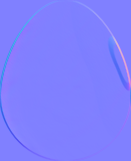
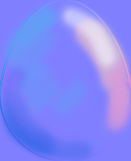
reglages

Changed region(s): [[0.458, 0.0311, 1.0, 0.8385], [0.0, 0.559, 0.6718, 0.9938], [0.0611, 0.0621, 0.3969, 0.3727]]

diff --git a/js/main.js b/js/main.js
@@ -1,10 +1,10 @@
 
 var LightConfiguration = function() {
 	this.shiny = 10;
-	this.specularity = 15;
-	this.lx = -100;
-	this.ly = 100;
-	this.lz = 137;
+	this.specularity = 70;
+	this.lx = 60;
+	this.ly = -100;
+	this.lz = 85;
 }
 
 var lightConf = new LightConfiguration();
@@ -19,125 +19,130 @@ gui.add( lightConf, "lz", 0, 200 );
 ///
 ///
 
-var canvasNormal = document.getElementById( "canvas_normal_map" );
-canvasNormal.width = canvasNormal.getAttribute( "width" );
-canvasNormal.height = canvasNormal.getAttribute( "height" );
-var ctxNormal = canvasNormal.getContext( "2d" );
+window.onload = function() {
 
-var normals = [];
-var normalData = getImageData( document.getElementById( "normal_map" ), ctxNormal ).data;
-var nx, ny, nz, magInv;
-var n = canvasNormal.width * canvasNormal.height * 4;
-for( var i = 0; i < n; i+=4 )
-{
-	nx = normalData[ i ];
-	ny = 255 - normalData[ i + 1 ];
-	nz = normalData[ i + 2 ];
+	var canvasNormal = document.getElementById( "canvas_normal_map" );
+	canvasNormal.width = canvasNormal.getAttribute( "width" );
+	canvasNormal.height = canvasNormal.getAttribute( "height" );
+	var ctxNormal = canvasNormal.getContext( "2d" );
 
-	magInv = 1.0 / Math.sqrt( nx * nx + ny * ny + nz * nz );
-	nx *= magInv;
-	ny *= magInv;
-	nz *= magInv;
+	var normals = [];
+	var normalData = getImageData( document.getElementById( "normal_map" ), ctxNormal ).data;
+	var nx, ny, nz, magInv;
+	var n = canvasNormal.width * canvasNormal.height * 4;
+	for( var i = 0; i < n; i+=4 )
+	{
+		nx = normalData[ i ];
+		ny = 255 - normalData[ i + 1 ];
+		nz = normalData[ i + 2 ];
 
-	normals.push( nx );
-	normals.push( ny );
-	normals.push( nz );
-}
+		magInv = 1.0 / Math.sqrt( nx * nx + ny * ny + nz * nz );
+		nx *= magInv;
+		ny *= magInv;
+		nz *= magInv;
 
-
-var textureData = getImageData( document.getElementById( "texture" ), ctxNormal ).data;
-window.onmousemove = render;
-
-function render( e ) {
-	var cx = Math.max( 200, Math.min( e.clientX, 440 ) );
-	var cy = Math.max( 150, Math.min( e.clientY, 200 ) );
-	drawLight( lightConf.shiny, lightConf.specularity, cx + lightConf.lx, cy + lightConf.ly, lightConf.lz );
-}
-
-function drawLight( shiny, specularity, lx, ly, lz ) {
-	var imgData = ctxNormal.getImageData( 0, 0, canvasNormal.width, canvasNormal.height );
-	var data = imgData.data;
-
-	var i = 0;
-	var ni = 0;
-	var nx = canvasNormal.width;
-	var ny = canvasNormal.height;
-	var dx = 0;
-	var dy = 0;
-	var dz = 0;
-	var x, y, vx, vx, vz, magInv, channel;
-	for( y = 0; y < ny; y++ ) {
-		for( x = 0; x < nx; x++ ) {
-			vx = normals[ ni ];
-			vy = normals[ ni + 1 ];
-			vz = normals[ ni + 2 ];
-
-			if( shiny > 0 || ( ni & 1 == 0 ) ) {
-				dx = lx - x;
-				dy = ly - y;
-				dz = lz;
-
-				magInv = 1.0 / Math.sqrt( dx * dx + dy * dy + dz * dz );
-				dx *= magInv;
-				dy *= magInv;
-				dz *= magInv;
-			}
-
-			var dot = dx * vx + dy * vy + dz * vz;
-			var spec = Math.pow( dot, 20 ) * specularity;
-			spec += Math.pow( dot, 400 ) * shiny;
-			var intensity = spec + 0.5;
-
-			for( channel = 0; channel < 3; channel++ ) {
-				data[ i + channel ] = Math.round( clamp( textureData[ i + channel ] * intensity, 0, 255 ) );
-			}
-			i += 4;
-			ni += 3;
-		}
+		normals.push( nx );
+		normals.push( ny );
+		normals.push( nz );
 	}
-	ctxNormal.putImageData( imgData, 0, 0 );
-}
 
-function clamp( x, min, max ) {
-	if( x < min ) return min;
-	if( x > max ) return max - 1;
-	return x;
-}
+
+	var textureData = getImageData( document.getElementById( "texture" ), ctxNormal ).data;
+	window.onmousemove = render;
+
+	function render( e ) {
+		var cx = e.clientX;
+		var cy = e.clientY;
+		// var cx = Math.max( 200, Math.min( e.clientX, 440 ) );
+		// var cy = Math.max( 150, Math.min( e.clientY, 200 ) );
+		drawLight( lightConf.shiny, lightConf.specularity, cx + lightConf.lx, cy + lightConf.ly, lightConf.lz );
+	}
+
+	function drawLight( shiny, specularity, lx, ly, lz ) {
+		var imgData = ctxNormal.getImageData( 0, 0, canvasNormal.width, canvasNormal.height );
+		var data = imgData.data;
+
+		var i = 0;
+		var ni = 0;
+		var nx = canvasNormal.width;
+		var ny = canvasNormal.height;
+		var dx = 0;
+		var dy = 0;
+		var dz = 0;
+		var x, y, vx, vx, vz, magInv, channel;
+		for( y = 0; y < ny; y++ ) {
+			for( x = 0; x < nx; x++ ) {
+				vx = normals[ ni ];
+				vy = normals[ ni + 1 ];
+				vz = normals[ ni + 2 ];
+
+				if( shiny > 0 || ( ni & 1 == 0 ) ) {
+					dx = lx - x;
+					dy = ly - y;
+					dz = lz;
+
+					magInv = 1.0 / Math.sqrt( dx * dx + dy * dy + dz * dz );
+					dx *= magInv;
+					dy *= magInv;
+					dz *= magInv;
+				}
+
+				var dot = dx * vx + dy * vy + dz * vz;
+				var spec = Math.pow( dot, 20 ) * specularity;
+				spec += Math.pow( dot, 400 ) * shiny;
+				var intensity = spec + 0.5;
+
+				for( channel = 0; channel < 3; channel++ ) {
+					data[ i + channel ] = Math.round( clamp( textureData[ i + channel ] * intensity, 0, 255 ) );
+				}
+				i += 4;
+				ni += 3;
+			}
+		}
+		ctxNormal.putImageData( imgData, 0, 0 );
+	}
+
+	function clamp( x, min, max ) {
+		if( x < min ) return min;
+		if( x > max ) return max - 1;
+		return x;
+	}
 
 ///
 ///
 ///
 
-var displacementSource = document.getElementById( "canvas_displacement_source" );
-var displacementMap = document.getElementById( "canvas_displacement_map" );
-var displacementTarget = document.getElementById( "canvas_displacement_target" );
+	var displacementSource = document.getElementById( "canvas_displacement_source" );
+	var displacementMap = document.getElementById( "canvas_displacement_map" );
+	var displacementTarget = document.getElementById( "canvas_displacement_target" );
 
-fillContext( displacementSource, document.getElementById( "texture" ) );
-fillContext( displacementMap, document.getElementById( "displacement_map" ) );
+	fillContext( displacementSource, document.getElementById( "texture" ) );
+	fillContext( displacementMap, document.getElementById( "displacement_map" ) );
 
-var filter = new filters.DisplacementMap( displacementSource, displacementMap, displacementTarget, new filters.Point(), 15, 15, filters.ColorChannelRED, filters.ColorChannelGREEN );
-filter.draw();
-
-function fillContext( canvas, img ) {
-	var ctx = canvas.getContext( "2d" );
-	ctx.drawImage( img, 0, 0, img.width, img.height );
-}
-
-gui = new dat.GUI();
-gui.add( filter, "scaleX", -100, 100 ).onChange( updateDisplacement );
-gui.add( filter, "scaleY", -100, 100 ).onChange( updateDisplacement );
-
-function updateDisplacement() {
+	var filter = new filters.DisplacementMap( displacementSource, displacementMap, displacementTarget, new filters.Point(), 15, 15, filters.ColorChannelRED, filters.ColorChannelGREEN );
 	filter.draw();
-}
+
+	function fillContext( canvas, img ) {
+		var ctx = canvas.getContext( "2d" );
+		ctx.drawImage( img, 0, 0, img.width, img.height );
+	}
+
+	gui = new dat.GUI();
+	gui.add( filter, "scaleX", -100, 100 ).onChange( updateDisplacement );
+	gui.add( filter, "scaleY", -100, 100 ).onChange( updateDisplacement );
+
+	function updateDisplacement() {
+		filter.draw();
+	}
 
 ///
 ///
 ///
 
-function getImageData( img, ctx ) {
-	ctx.clearRect( 0, 0, img.width, img.height );
-	ctx.drawImage( img, 0, 0 );
-	return ctx.getImageData( 0, 0, img.width, img.height );
+	function getImageData( img, ctx ) {
+		ctx.clearRect( 0, 0, img.width, img.height );
+		ctx.drawImage( img, 0, 0 );
+		return ctx.getImageData( 0, 0, img.width, img.height );
+	}
 }
 

diff --git a/css/main.css b/css/main.css
@@ -8,3 +8,7 @@ html, body {
 .main {
 
 }
+
+.main__normal_map img {
+	position: absolute;
+}
